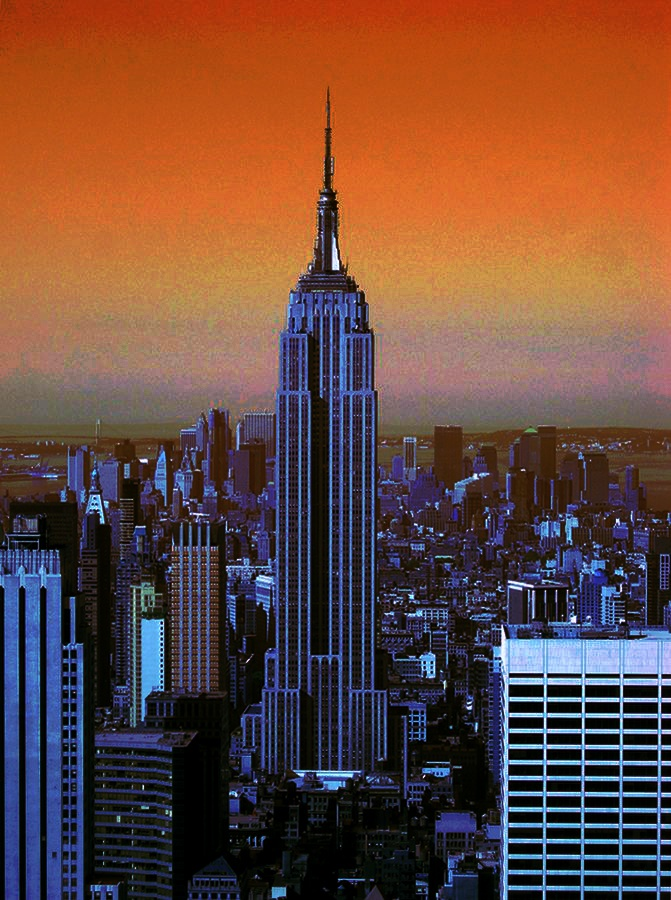
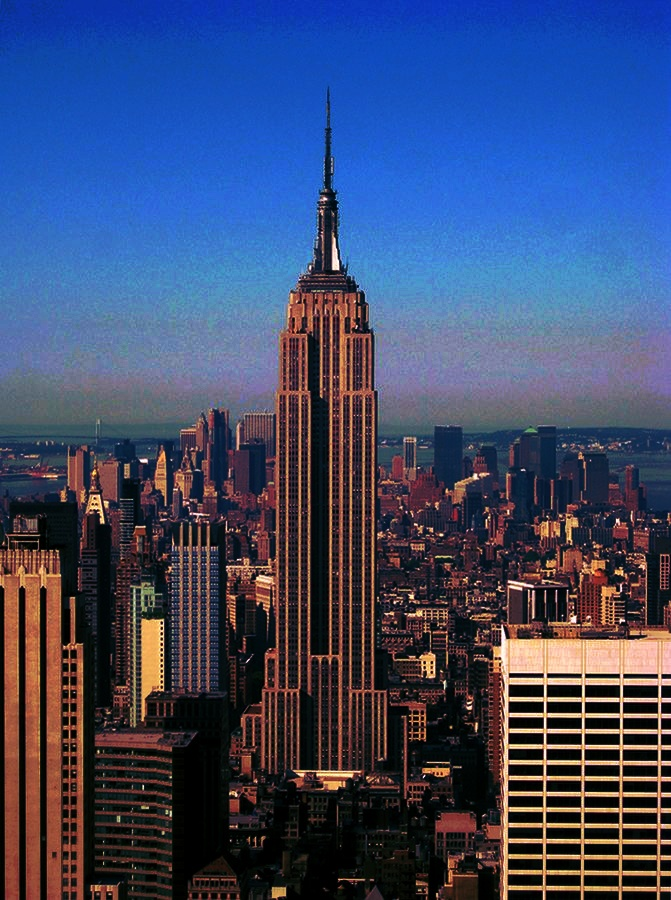
Task 10 - Histogram Matching

diff --git a/tasks/task-10-histogram-matching/task_07_histogram_matching.py b/tasks/task-10-histogram-matching/task_07_histogram_matching.py
@@ -26,8 +26,25 @@ Notes:
 
 import cv2 as cv
 import numpy as np
-import scikitimage as ski
 
 def match_histograms_rgb(source_img: np.ndarray, reference_img: np.ndarray) -> np.ndarray:
-    # Your implementation here
-    pass
+
+    def build_lut(src_channel: np.ndarray, ref_channel: np.ndarray) -> np.ndarray:
+
+        src_hist = np.bincount(src_channel.ravel(), minlength=256)
+        ref_hist = np.bincount(ref_channel.ravel(), minlength=256)
+
+        src_cdf = np.cumsum(src_hist).astype(np.float64)
+        ref_cdf = np.cumsum(ref_hist).astype(np.float64)
+        src_cdf /= src_cdf[-1] if src_cdf[-1] > 0 else 1.0
+        ref_cdf /= ref_cdf[-1] if ref_cdf[-1] > 0 else 1.0
+
+        lut = np.interp(src_cdf, ref_cdf, np.arange(256)).round().astype(np.uint8)
+        return lut  
+
+    matched = np.empty_like(source_img)
+    for c in range(3):
+        lut = build_lut(source_img[:, :, c], reference_img[:, :, c])
+        matched[:, :, c] = lut[source_img[:, :, c]]
+
+    return matched
